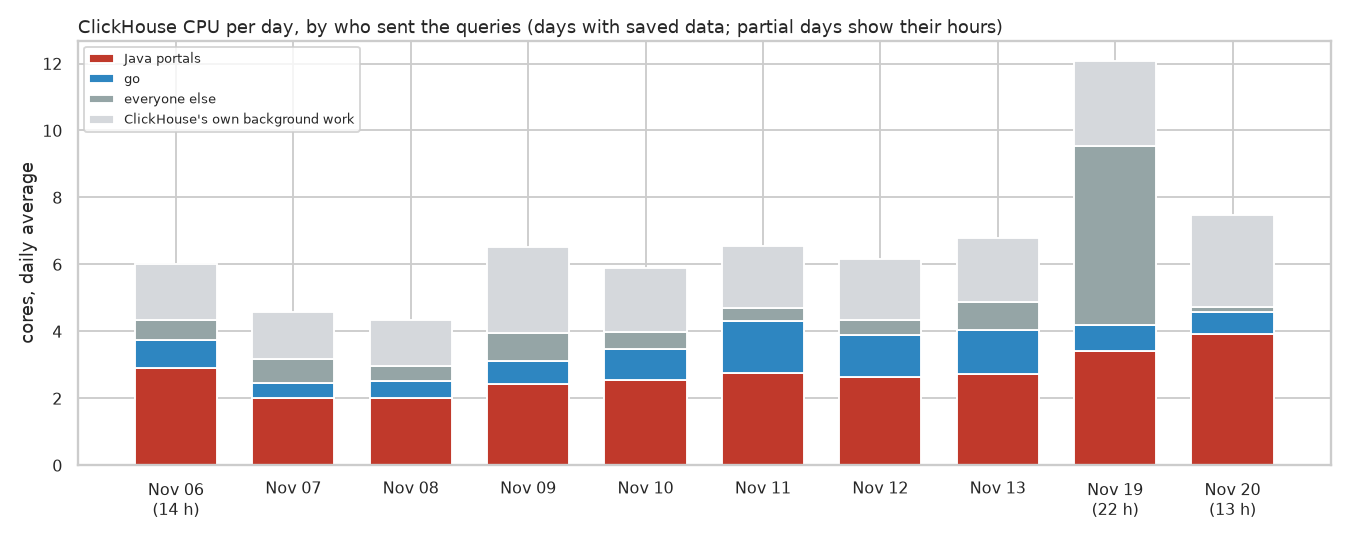
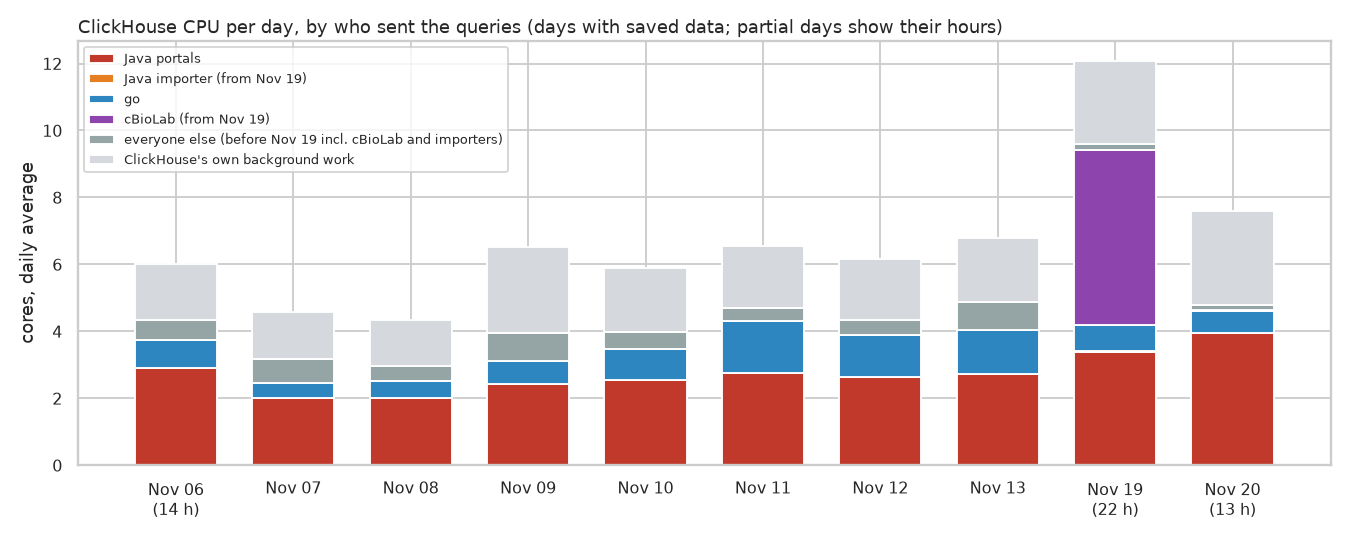
docs: benchmark splits cBioLab and the Java importer out of ClickHouse's load
Claude-Session: https://claude.ai/code/session_01RxcWHeEyvtRsR9kwwRkSxC
Entire-Checkpoint: 01M7WGM46SSP3R8NYMJ10QSES3

Changed region(s): [[0.0622, 0.1185, 0.3733, 0.3259], [0.7778, 0.2667, 0.9644, 0.6222], [0.28, 0.0593, 0.3733, 0.1481]]

diff --git a/docs/rewrite/benchmark.md b/docs/rewrite/benchmark.md
@@ -198,23 +198,35 @@ yet, so this comparison favors Java slightly.
 The pods above are only half of the cost: both backends send their queries
 to the same ClickHouse service (2 replicas of 8 cores). The table shows its
 average CPU per day, from ClickHouse's own query log, split by who sent the
-queries. "Other users" are everything else on the same service, such as
-analytics notebooks and other teams' tools. "Whole service" also counts
-ClickHouse's background work, such as merging newly written data.
+queries:
 
-| Day (UTC) | Java | go | Other users | Whole service | Whole service, busiest 5% of 5-minute periods |
-|---|---|---|---|---|---|
-| 2026-11-06 (from 10:30) | 2.91 | 0.83 | 0.59 | 6.00 | 9.0 |
-| 2026-11-07 | 2.00 | 0.46 | 0.70 | 4.56 | 8.3 |
-| 2026-11-08 | 2.01 | 0.52 | 0.44 | 4.34 | 7.6 |
-| 2026-11-09 | 2.41 | 0.70 | 0.83 | 6.52 | 14.3 |
-| 2026-11-10 | 2.54 | 0.91 | 0.53 | 5.89 | 12.5 |
-| 2026-11-11 | 2.75 | 1.57 | 0.38 | 6.54 | 10.9 |
-| 2026-11-12 | 2.64 | 1.24 | 0.45 | 6.15 | 9.4 |
-| 2026-11-13 | 2.73 | 1.31 | 0.84 | 6.79 | 11.4 |
-| 2026-11-19 (from 02:00) | 3.41 | 0.77 | 5.37 | 12.08 | 15.3 |
-| 2026-11-20 (to 12:50) | 3.91 | 0.66 | 0.17 | 7.49 | 12.7 |
-| **Average, Nov 6 to 13** | **2.50** | **0.94** | **0.60** | **5.85** | |
+- "Java portals" are the queries of Java's websites and API.
+- "Java importer" is what the Java importer writes: its inserts and table
+  changes.
+- "cBioLab" is the cBioLab chat assistant, which runs its own queries on
+  the same data.
+- "Other users" are everything else on the same service, such as GENIE,
+  monitoring and other teams' tools.
+- "Whole service" also counts ClickHouse's background work, such as
+  merging newly written data.
+
+Before November 19, the saved days have only three groups. The Java
+importer is part of "Java portals" there, and cBioLab is part of "Other
+users", so those columns show a dash.
+
+| Day (UTC) | Java portals | Java importer | go | cBioLab | Other users | Whole service | Whole service, busiest 5% of 5-minute periods |
+|---|---|---|---|---|---|---|---|
+| 2026-11-06 (from 10:30) | 2.91 | – | 0.83 | – | 0.59 | 6.00 | 9.0 |
+| 2026-11-07 | 2.00 | – | 0.46 | – | 0.70 | 4.56 | 8.3 |
+| 2026-11-08 | 2.01 | – | 0.52 | – | 0.44 | 4.34 | 7.6 |
+| 2026-11-09 | 2.41 | – | 0.70 | – | 0.83 | 6.52 | 14.3 |
+| 2026-11-10 | 2.54 | – | 0.91 | – | 0.53 | 5.89 | 12.5 |
+| 2026-11-11 | 2.75 | – | 1.57 | – | 0.38 | 6.54 | 10.9 |
+| 2026-11-12 | 2.64 | – | 1.24 | – | 0.45 | 6.15 | 9.4 |
+| 2026-11-13 | 2.73 | – | 1.31 | – | 0.84 | 6.79 | 11.4 |
+| 2026-11-19 (from 02:00) | 3.39 | 0.02 | 0.78 | 5.22 | 0.18 | 12.08 | 15.3 |
+| 2026-11-20 (to 13:00) | 3.94 | 0.01 | 0.67 | 0.02 | 0.16 | 7.58 | 12.7 |
+| **Average, Nov 6 to 13** | **2.50** | – | **0.94** | – | **0.60** | **5.85** | |
 
 All figures are CPU cores. In this period go received a quarter of www's
 API traffic as a copy, plus go.cbioportal.org's own visitors and the
@@ -223,11 +235,12 @@ column is not a like-for-like share; per request it is in the
 [ClickHouse load per request](#clickhouse-load-per-request) section.
 
 Other users can load the service far more than this, unannounced. On
-2026-11-19 from 00:00 to 01:30 UTC, an automated batch of another tool's
-queries alone used 3 to 3.6 cores on average, and one replica briefly
-reached all 8 cores. That load had nothing to do with go or Java. A
-ClickHouse figure for a single day therefore says little about go on its
-own; the per-group split above does.
+November 19, cBioLab used 5.2 cores on average over the day, more than
+Java and go together, and one replica briefly reached all 8 cores. That
+load had nothing to do with go or Java. A ClickHouse figure for a single
+day therefore says little about go on its own; the per-group split above
+does. No Java import ran in the saved days, so the Java importer's column
+shows almost nothing yet. An import will show up there when it runs.
 
 ![ClickHouse CPU per day, split into Java portals, go, everyone else and ClickHouse's own background work](images/production-clickhouse-per-day.png)
 
